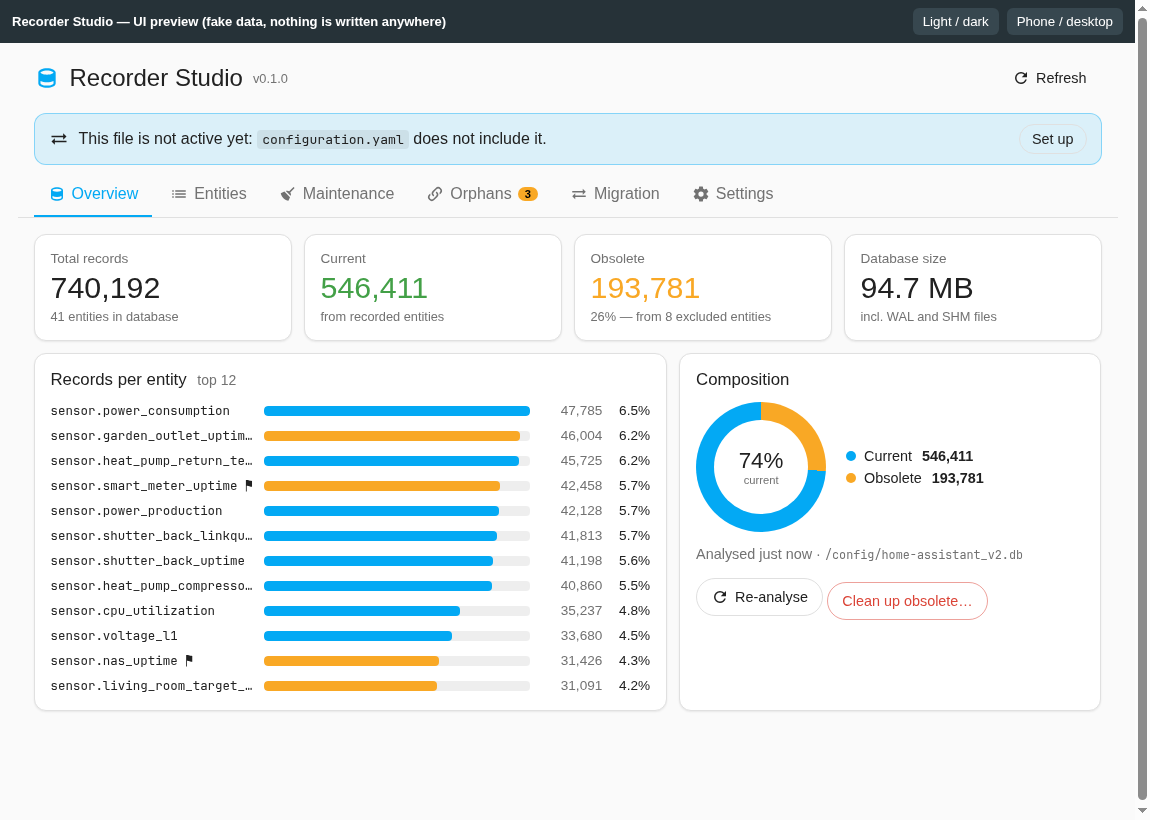
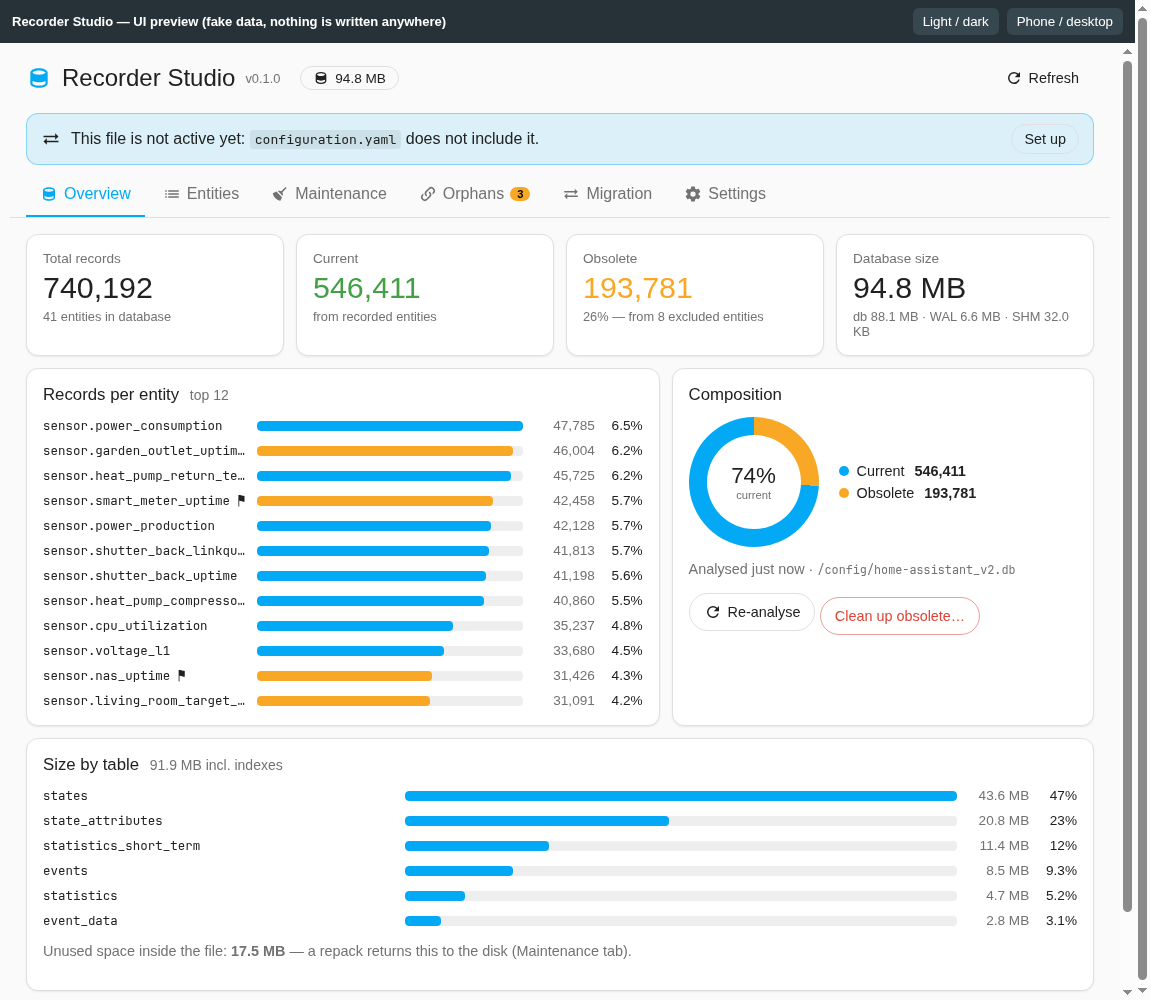
📝 Document database size breakdown in README

diff --git a/README.md b/README.md
@@ -17,8 +17,11 @@ history that is no longer wanted.
 
 - **Per device / per entity recording control.** Switch recording on or off for a whole device or a single entity,
   review the changes, then save them in one go. The result is written to a generated `recorder_studio.yaml`.
-- **See what fills your database.** Total, current and obsolete records, database size (including the WAL and SHM
-  files), the top entities, and **each entity's and device's share of the database in percent**.
+- **See what fills your database.** Total, current and obsolete records, the top entities, and **each entity's and
+  device's share of the database in percent**.
+- **See how big the database is.** The total size (database + WAL + SHM) is always shown next to the title. After an
+  analysis you also get the size per table (states, attributes, statistics, events, …) including indexes, and how much
+  unused space a repack would return to the disk.
 - **Search and filter.** Search by entity id, name, device or platform; filter by domain or status (recorded, excluded,
   excluded but still has history); sort by name or by share of the database.
 - **Safe maintenance.** Purge by retention, purge the history of excluded entities, purge a single entity, repack the
@@ -59,7 +62,7 @@ continue with step 3 above.
 ## First steps
 
 1. **Analyse the database.** On the Overview tab click *Analyse database*. This is read-only and may take a moment
-   on a large database. Statistics are never refreshed automatically; click *Re-analyse* after changes.
+   on a large database (the per-table sizes read every page of the file). The total size is visible without it. Statistics are never refreshed automatically; click *Re-analyse* after changes.
 2. **Check the situation.** The Migration tab tells you whether `configuration.yaml` already includes
    `recorder_studio.yaml`. If not, a blue banner offers a *Set up* shortcut.
 3. **Migrate** once (see [Migration](#migration)).
@@ -70,7 +73,7 @@ continue with step 3 above.
 
 | Tab | What it does |
 | --- | --- |
-| **Overview** | Total / current / obsolete records, database size, records per entity with percentage, composition chart. *Obsolete* means records that still exist for entities that are now excluded. |
+| **Overview** | Total / current / obsolete records, database size split into file / WAL / SHM, records per entity with percentage, composition chart, size per table and reclaimable space. *Obsolete* means records that still exist for entities that are now excluded. |
 | **Entities** | Device tree with a recording toggle per device and per entity, records and share per row, search, filters and sorting. Changes stay pending until you press **Save changes** (a bar at the bottom shows how many). A trash button purges the history of one excluded entity. |
 | **Maintenance** | Purge by retention, purge excluded entities, repack, restart Home Assistant. |
 | **Orphans** | Excluded entities that no longer exist anywhere and have no history. Remove them in bulk; nothing is deleted from the database. |
@@ -177,6 +180,7 @@ two comment lines) into an inline `recorder:` block and remove the include.
 - SQLite only.
 - Purging works per entity, for all excluded entities, or by retention. There is no per-device purge button.
 - Recording changes need a Home Assistant restart.
+- The per-table sizes need SQLite's `dbstat` module; if your SQLite build lacks it, that card is simply hidden.
 - Re-enabling recording for an entity that one of your manual domain/glob rules excludes is not supported; remove or
   narrow the rule instead.
 
